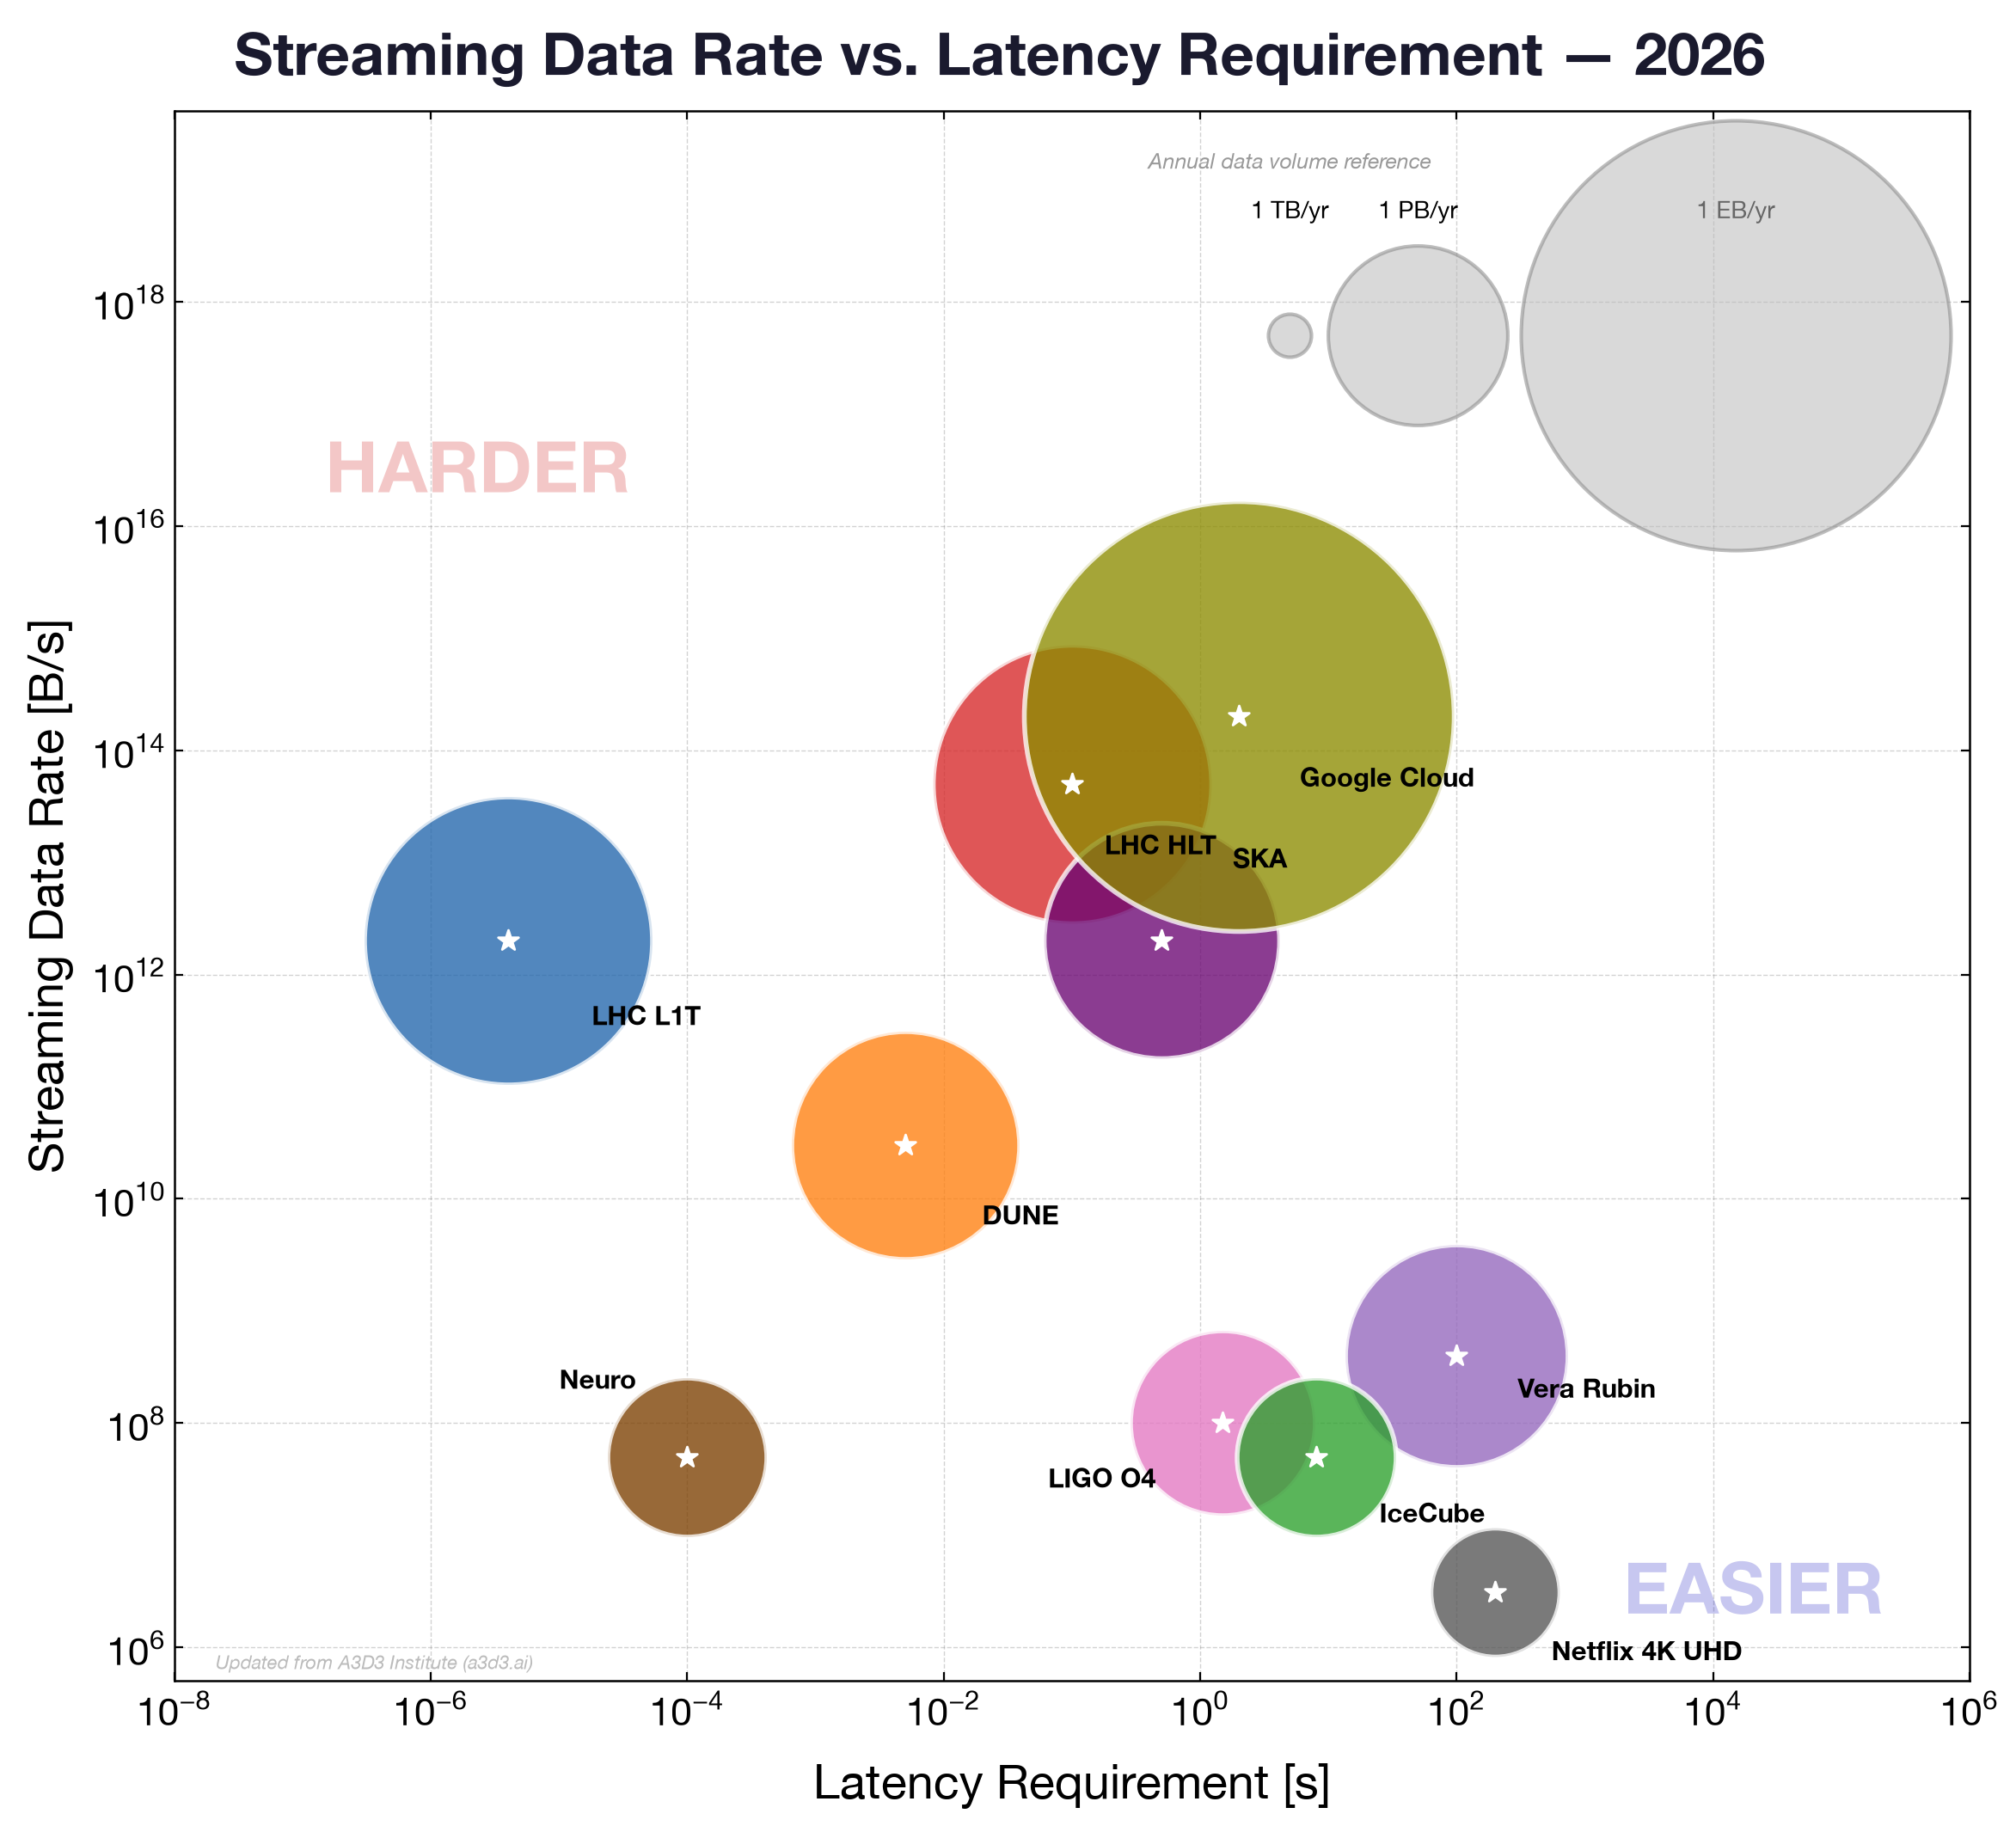
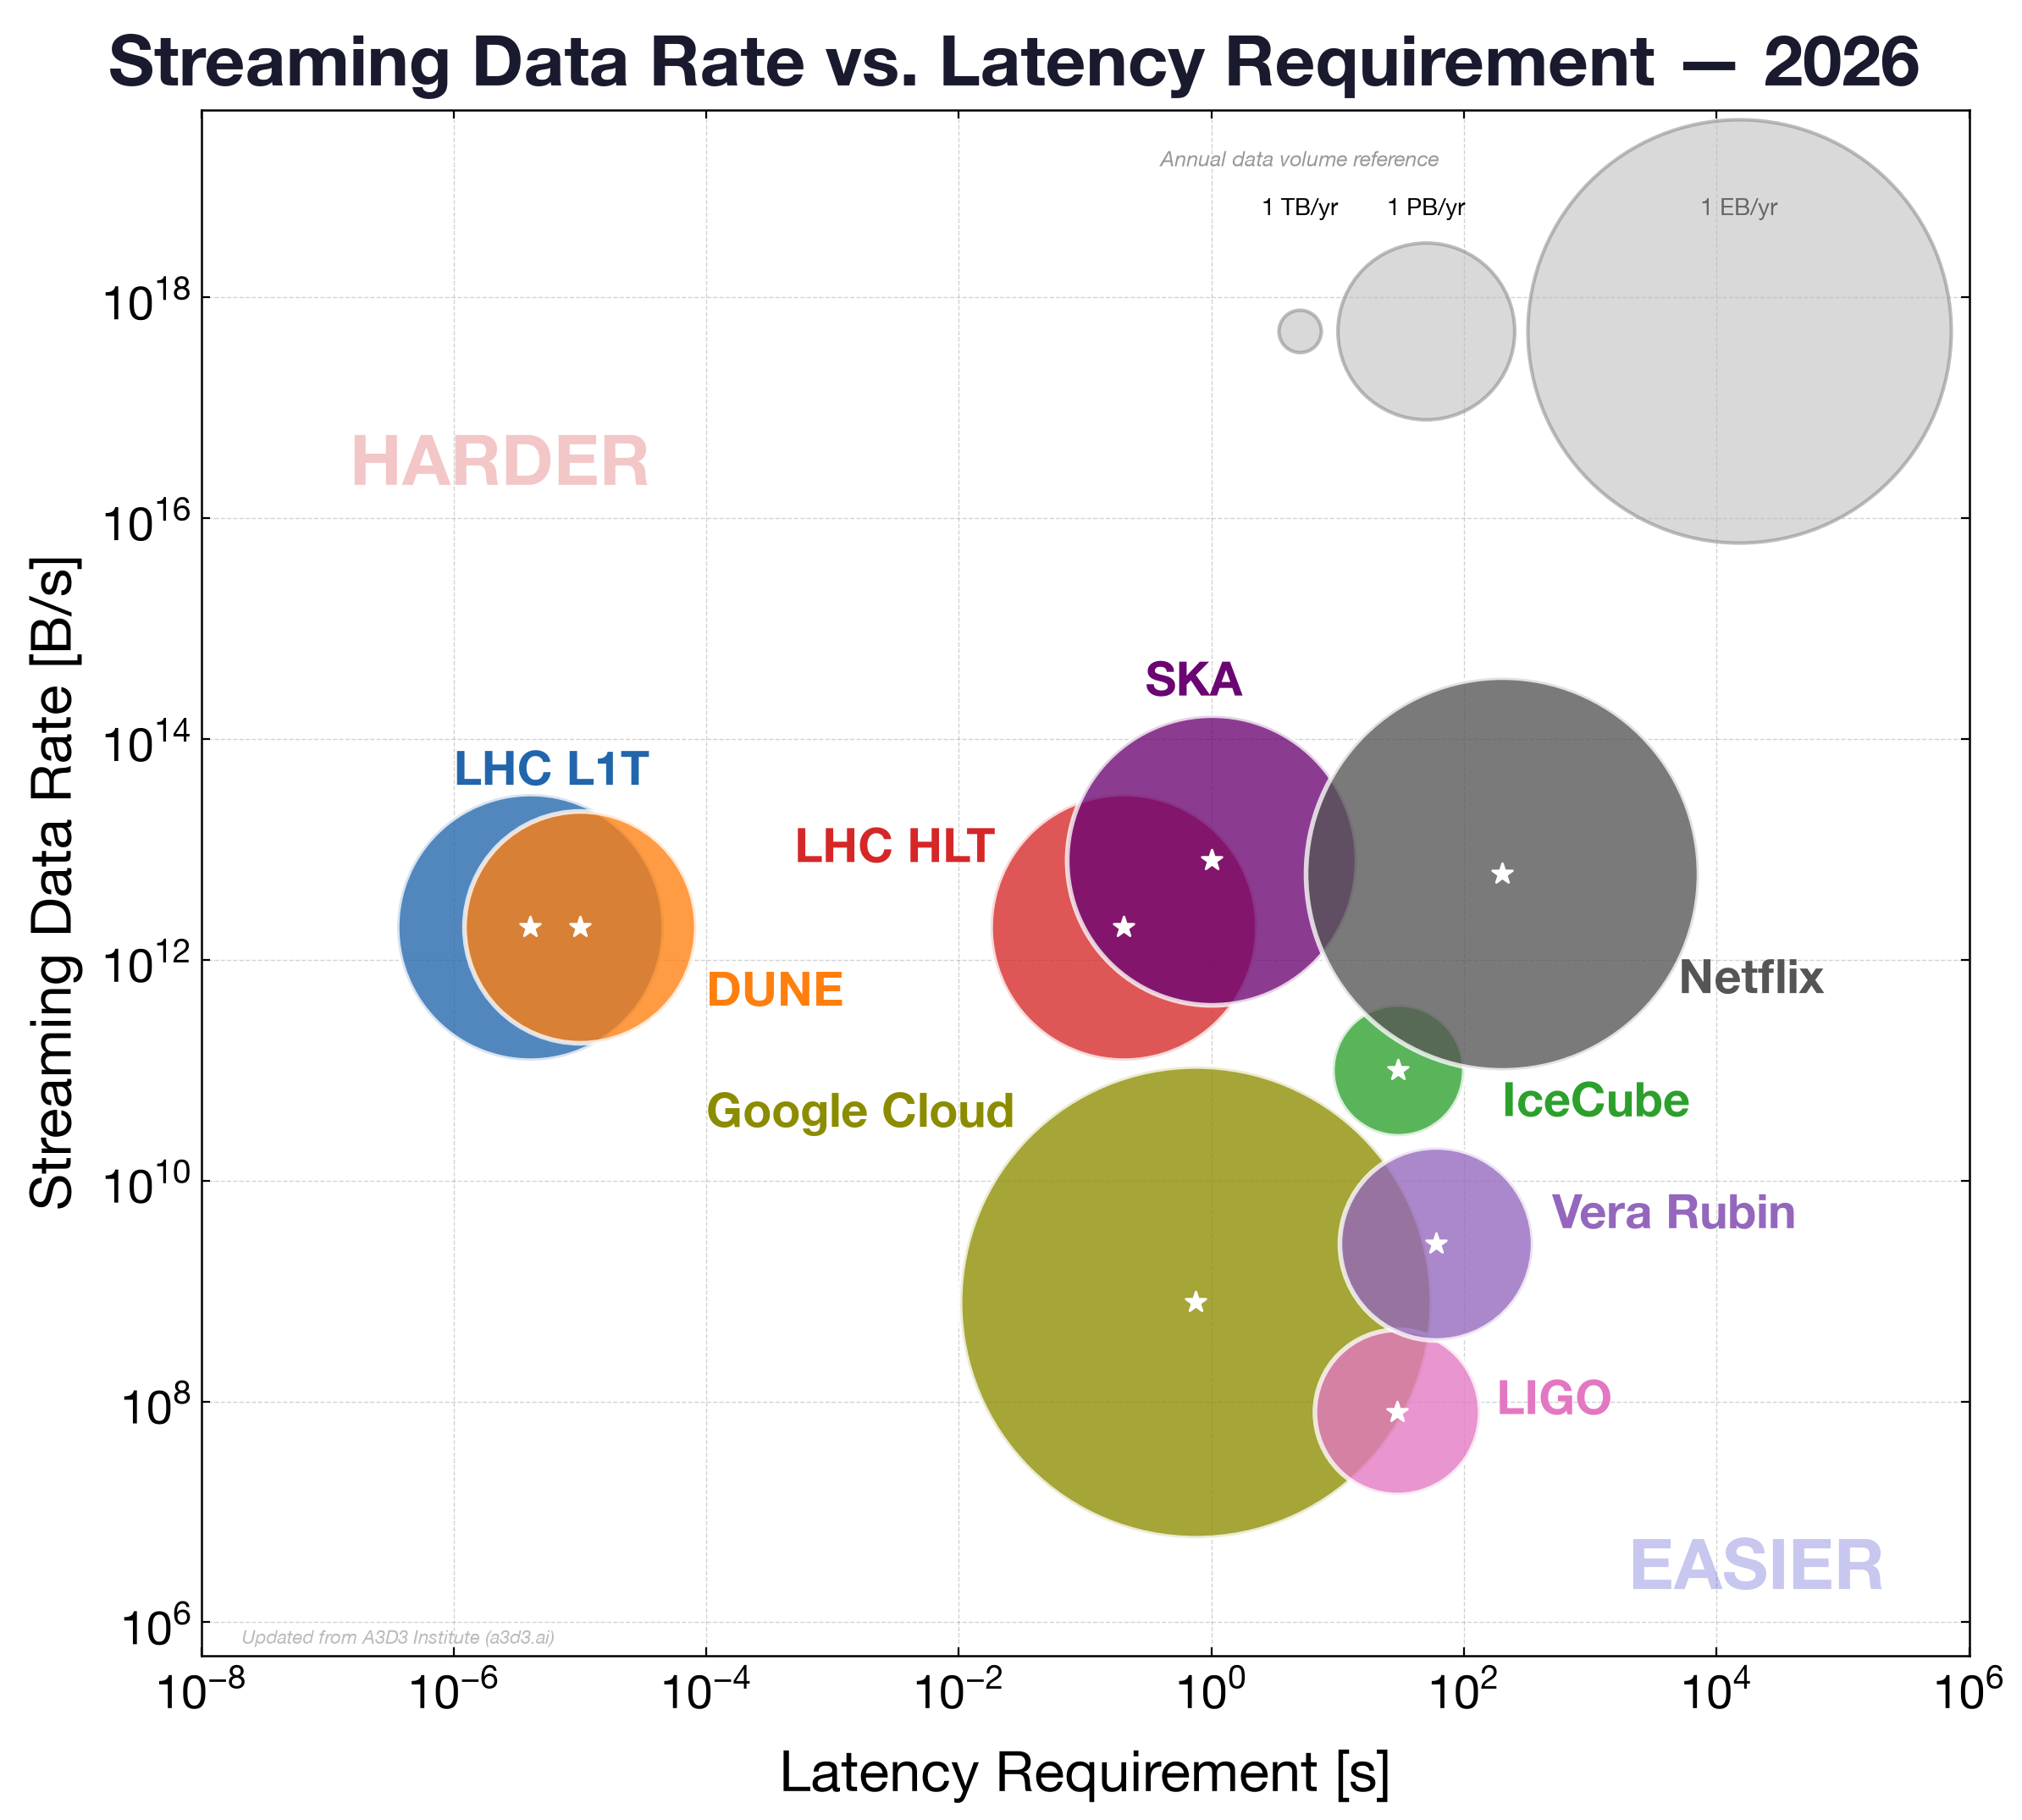
Update latency values for figure 2.

diff --git a/figure2.py b/figure2.py
@@ -44,19 +44,19 @@ K = 18   # bubble scale factor
 DATA = [
     # ── FPGA/ASIC region (latency < ~10 ms) ──────────────────────
     # name             lat     rate    PB/yr  colour     ann_x   ann_y   ha       va
-    ('LHC L1T',        4e-6,   2e12,   500,   '#2166AC', 1.8e-5, 6e11,  'left',  'top'),
-    ('DUNE',           5e-3,   3e10,    20,   '#FF7F0E', 2e-2,   1e10,  'left',  'top'),
-    ('Neuro',          1e-4,   5e7,    0.5,   '#7B3F00', 4e-5,   1.8e8, 'right', 'bottom'),
+    ('LHC L1T',        4e-6,   2e12,   200,   '#2166AC', 1e-6, 1e14,  'left',  'top'),
+    ('DUNE',           10e-6,   2e12,    30,   '#FF7F0E', 1e-4,   1e12,  'left',  'top'),
+#     ('Neuro',          1e-4,   5e7,    0.5,   '#7B3F00', 4e-5,   1.8e8, 'right', 'bottom'),
 
     # ── Boundary / CPU-GPU region ─────────────────────────────────
-    ('LHC HLT',        1e-1,   5e13,   300,   '#D62728', 1.8e-1, 2e13,  'left',  'top'),
-    ('SKA',            5e-1,   2e12,    30,   '#6A0572', 1.8,    8e12,  'left',  'bottom'),
-    ('Google Cloud',   2.0,    2e14,   1e6,   '#8C8C00', 6.0,    8e13,  'left',  'top'),
-    ('LIGO O4',        1.5,    1e8,     2,    '#E377C2', 4.5e-1, 4.5e7, 'right', 'top'),
-    ('Vera Rubin',     100,    4e8,     15,   '#9467BD', 300,    1.5e8, 'left',  'bottom'),
-    ('IceCube',        8,      5e7,    0.5,   '#2CA02C', 25,     2.2e7, 'left',  'top'),
+    ('LHC HLT',        200e-3,   2e12,   200,   '#D62728', 5e-4, 2e13,  'left',  'top'),
+    ('SKA',            1e0,   8e12,    700,   '#6A0572', 3e-1,    2e14,  'left',  'bottom'),
+    ('Google Cloud',   0.75,    8e8,   14e6,   '#8C8C00', 1e-4,    8e10,  'left',  'top'),
+    ('LIGO',        29.5,    80e6,     0.8,    '#E377C2', 1.5e3, 2e8, 'right', 'top'),
+    ('Vera Rubin',     60,    2.7e9,     3.65,   '#9467BD', 500,    3e9, 'left',  'bottom'),
+    ('IceCube',        30,      100e9,    0.130,   '#2CA02C', 200,     1e11, 'left',  'top'),
 #     ('ZTF',            50,     2e7,     1,    '#17BECF', 150,    7e7,   'left',  'bottom'),
-    ('Netflix 4K UHD', 200,    3.1e6,  0.1,   '#555555', 550,    1.3e6, 'left',  'top'),
+    ('Netflix', 200,    6e12,  190895,   '#555555', 5e3,    1.3e12, 'left',  'top'),
 ]
 
 # ═══════════════════════════════════════════════════════════════════
@@ -89,7 +89,7 @@ for name, lat, rate, pb, color, ax_, ay_, ha, va in DATA:
     # ── Label (plain text, no arrow — matches original A3D3 style) ──
     ax.text(ax_, ay_, name,
             ha=ha, va=va,
-            fontsize=11, fontweight='bold', color='black',
+            fontsize=20, fontweight='bold', color=color,
             zorder=10)
 
 # ═══════════════════════════════════════════════════════════════════
@@ -124,11 +124,11 @@ ax.set_yscale('log')
 ax.set_xlim(1e-8, 1e6)
 ax.set_ylim(5e5,  5e19)
 
-ax.set_xlabel('Latency Requirement [s]',   fontsize=20, labelpad=8)
-ax.set_ylabel('Streaming Data Rate [B/s]', fontsize=20, labelpad=8)
+ax.set_xlabel('Latency Requirement [s]',   fontsize=24, labelpad=8)
+ax.set_ylabel('Streaming Data Rate [B/s]', fontsize=24, labelpad=8)
 
 ax.tick_params(which='both', direction='in',
-               top=True, right=True, labelsize=16)
+               top=True, right=True, labelsize=20)
 ax.grid(True, which='major', ls='--', lw=0.5, color='gray', alpha=0.35)
 ax.grid(True, which='minor', ls=':',  lw=0.3, color='gray', alpha=0.20)
 
@@ -159,7 +159,7 @@ ax.text(2e3,    2e6,  'EASIER',
 # 7.  Title & attribution
 # ═══════════════════════════════════════════════════════════════════
 fig.suptitle('Streaming Data Rate vs. Latency Requirement — 2026',
-             fontsize=25, fontweight='bold', y=0.97, color='#1A1A2E')
+             fontsize=30, fontweight='bold', y=0.97, color='#1A1A2E')
 
 ax.text(0.2, 0.005,
         'Updated from A3D3 Institute (a3d3.ai)',

diff --git a/README.md b/README.md
@@ -74,3 +74,51 @@
     - 100×10⁶ channels × 10 bits × 40×10⁶ Hz = 4×10¹⁶ bits/s = ~5 PB/s
     - 5 PB/s × 3.15×10⁷ s/yr ≈ 1.6×10⁸ PB/yr per experiment → ~10⁸ PB/yr order of magnitude
     - This is why the trigger system exists — it reduces this by a factor of ~10⁶
+
+
+## Sources for Figure 2
+
+### LHC L1T 
+    - LHC L1T — latency 4×10⁻⁶ s, rate 2×10¹² B/s, 500 PB/yr
+    - Latency: CMS Run 3 L1T hardware latency is publicly documented at 4 μs https://iopscience.iop.org/article/10.1088/1748-0221/15/10/P10017
+    - Rate: The L1T FPGA fabric must inspect trigger primitives from all sub-detectors at 40 MHz. Total primitive bandwidth across all subsystems is O(1–10 TB/s); I used 2 TB/s = 2×10¹² B/s as a central estimate based on https://indico.cern.ch/event/1517284/contributions/6385565/attachments/3080674/5452992/NGT_CMS_SecondAllHands.pdf 
+    - Annual volume:  ~200 PB/yr — consistent with numbers from previous figure
+
+### LHC HLT 
+    - 260 ms as the latency https://indico.cern.ch/event/1199314/contributions/5240253/attachments/2619778/4529140/DSLemos_Trigger_DIS23_v4.pdf
+    - 2 TB/s https://cms.cern/news/cms-completes-new-daq-server-room-preparation-hi-lumi 
+
+### DUNE 
+    - Latency: DUNE online trigger must correlate with the Fermilab beam spill window (~10 us) https://indico.snolab.ca/event/21/contributions/578/attachments/441/917/DUNE_ingratta_NNN25.pdf
+    - Rate: Far detector module 1 has ~800 000 readout channels at 2 MHz, 12-bit ADC → 2.4 TB/s raw.
+    -  ~30 PB/yr for Phase I https://inspirehep.net/files/0e41ade808aa571c69628e3ac00cffa7  
+
+###  Google Cloud
+    - Latency: Tested response time https://www.gcping.com/ and max latecy was 750 ms, so 0.75 s
+    - Rate: Publisher throughput per region (mediums) 800 MB/s https://docs.cloud.google.com/pubsub/quotas
+    - Annual volume: 100 zettabytes total https://www.pump.co/blog/cloud-computing-growth-statistics/ and then google cloud has 14% of this so that is roughly 1.4 e22 bytes
+
+###  SKA Observatory 
+    - 700 PB/year https://www.skao.int/en/explore/big-data (previous fig)
+    - Rate: 8 TB/s https://www.skao.int/en/explore/big-data
+    - Latency: 10 s https://www.skao.int/sites/default/files/documents/SCIOPS_TIMELINE_MID.pdf 
+
+### Vera Rubin Observatory 
+    - 3.65 PB / year based on the above plot
+    - Take 10 TB/hour and do dimensional analysis to get: 2.7e9 B/s
+    - Latency of 60 sec https://rubinobservatory.org/for-scientists/rubin-101/key-numbers
+
+### LIGO
+    - Rate: 80 MB/s https://www.linkedin.com/posts/gabriele-vajente_how-much-data-does-ligo-produce-the-main-activity-7467942489581228035-AMYD/
+    - Latency: 29.5s https://www.pnas.org/doi/10.1073/pnas.2316474121
+    - Total volume 0.8 B/year: https://www.eoportal.org/other-space-activities/ligo#precision-characterization 
+
+### Ice Cube
+    - Rate: 100 Gb/s https://internet2.edu/can-we-use-all-the-bandwidth/
+    - Total volume 130 TB or 0.13 Pb: https://internet2.edu/can-we-use-all-the-bandwidth/
+    - Latency: 30 s https://iopscience.iop.org/article/10.3847/1538-4357/aca5fc
+
+### Netflix
+    - Convert 523 million hours / day https://www.statspanda.com/live-counters/netflix-hours-watched-globally to bytes per second, 6.05324074 × 10^12 b/s
+    - 190,895 PB / year for the previous plot to
+    - 200s https://www.mux.com/articles/adaptive-bitrate-streaming-how-it-works-and-how-to-get-it-right